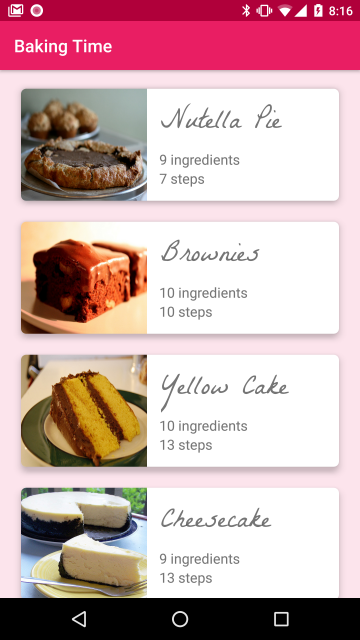
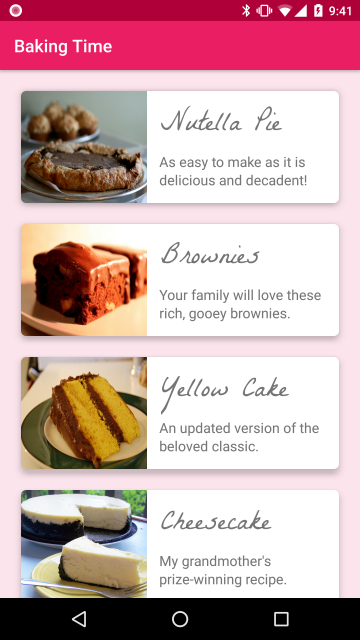
Recipe cards/model now includes blurbs

diff --git a/app/src/main/java/com/tachyonlabs/bakingapp/utilities/RecipeJsonUtils.java b/app/src/main/java/com/tachyonlabs/bakingapp/utilities/RecipeJsonUtils.java
@@ -19,13 +19,14 @@ public class RecipeJsonUtils {
     public static Recipe[] getRecipesFromJson(Context context, String recipesJsonString) throws JSONException {
         JSONArray recipesArray = new JSONArray(recipesJsonString);
         Recipe[] recipes = new Recipe[recipesArray.length()];
-        HashMap<String, String> photoUrls = new HashMap<>();
+        HashMap<String, String[]> photoUrls = new HashMap<>();
         /*
         The JSON for the recipes contains URLs for videos illustrating some of the steps, but no
-        links to photos. I would say that in "real life" no one who went to all the trouble to make
-        multiple videos for each of their recipes would neglect the very basic step of taking at
-        least one photograph of the finished products, so to make this app look more like an actual
-        product as well, I am using the following Flickr photos, which the photographers have made
+        links to photos, and no recipe descriptions. I would say that in "real life" no one who went
+        to all the trouble to make multiple videos for each of their recipes would neglect the very
+        basic steps of taking at least one photograph and writing a short blurb/tagline for each of
+        the finished products, so to make this app look more like an actual product as well, I wrote
+        some blurbs, and am using the following Flickr photos, which the photographers have made
         available for use under the Creative Commons license:
 
         * For Nutella Pie: "[I invented this](https://www.flickr.com/photos/leedav/4328677446/)", by [Lee Davenport](https://www.flickr.com/people/leedav/)
@@ -33,10 +34,10 @@ public class RecipeJsonUtils {
         * For Yellow Cake: "[yellow cake](https://www.flickr.com/photos/stuart_spivack/2584637478/)", by [Stuart Spivack](https://www.flickr.com/people/stuart_spivack/)
         * For Cheesecake: "[Cheesecake Supreme](https://www.flickr.com/photos/cuttingboard/2699220126)", by [Emily Carlin](https://www.flickr.com/people/cuttingboard/)
         */
-        photoUrls.put("Nutella Pie", "https://c1.staticflickr.com/5/4001/4328677446_ecdd0479a3_z.jpg");
-        photoUrls.put("Brownies", "https://c2.staticflickr.com/6/5224/5727350257_72a6008cc9_z.jpg");
-        photoUrls.put("Yellow Cake", "https://c2.staticflickr.com/4/3177/2584637478_bc89ae4a1d_z.jpg");
-        photoUrls.put("Cheesecake", "https://c2.staticflickr.com/4/3015/2699220126_cc964a2cd2_z.jpg");
+        photoUrls.put("Nutella Pie", new String[] {"https://c1.staticflickr.com/5/4001/4328677446_ecdd0479a3_z.jpg", "As easy to make as it is delicious and decadent!"});
+        photoUrls.put("Brownies",  new String[] {"https://c2.staticflickr.com/6/5224/5727350257_72a6008cc9_z.jpg", "Your family will love these rich, gooey brownies."});
+        photoUrls.put("Yellow Cake",  new String[] {"https://c2.staticflickr.com/4/3177/2584637478_bc89ae4a1d_z.jpg", "An updated version of the beloved classic."});
+        photoUrls.put("Cheesecake",  new String[] {"https://c2.staticflickr.com/4/3015/2699220126_cc964a2cd2_z.jpg", "My grandmother's prize-winning recipe."});
 
         for (int i = 0; i < recipesArray.length(); i++) {
             JSONObject recipe = recipesArray.getJSONObject(i);
@@ -50,7 +51,10 @@ public class RecipeJsonUtils {
             RecipeStep[] recipeSteps = getStepsFromJson(context, steps);
             Log.d(TAG, "recipeSteps length: " + recipeSteps.length);
 
-            Recipe card = new Recipe(i, recipeName, recipeIngredients, recipeSteps, recipeServings, photoUrls.get(recipeName));
+            String photoUrl = photoUrls.get(recipeName)[0];
+            String blurb = photoUrls.get(recipeName)[1];
+
+            Recipe card = new Recipe(i, recipeName, recipeIngredients, recipeSteps, recipeServings, photoUrl, blurb);
             recipes[i] = card;
         }
         return recipes;

diff --git a/app/src/main/java/com/tachyonlabs/bakingapp/RecipeCardAdapter.java b/app/src/main/java/com/tachyonlabs/bakingapp/RecipeCardAdapter.java
@@ -36,9 +36,8 @@ public class RecipeCardAdapter extends RecyclerView.Adapter<RecipeCardAdapter.Re
     @Override
     public void onBindViewHolder(RecipeCardAdapterViewHolder holder, int position) {
         String recipeTitle = mRecipes[position].getName();
-        String recipeIngredients = mRecipes[position].getIngredientsCount()  + " ingredient" + (mRecipes[position].getIngredientsCount() > 1 ? "s" : "");
-        String recipeSteps = mRecipes[position].getStepsCount()  + " step" + (mRecipes[position].getStepsCount() > 1 ? "s" : "");
         String recipeImageUrl = mRecipes[position].getImage();
+        String recipeBlurb = mRecipes[position].getBlurb();
 
         // TODO make placeholder and error images later too
         Picasso.with(holder.ivRecipePhoto.getContext())
@@ -47,8 +46,7 @@ public class RecipeCardAdapter extends RecyclerView.Adapter<RecipeCardAdapter.Re
                 .error(R.drawable.ic_launcher_foreground)
                 .into(holder.ivRecipePhoto);
         holder.tvRecipeName.setText(recipeTitle);
-        holder.tvRecipeIngredients.setText(recipeIngredients);
-        holder.tvRecipeSteps.setText(recipeSteps);
+        holder.tvRecipeBlurb.setText(recipeBlurb);
     }
 
     @Override
@@ -72,15 +70,13 @@ public class RecipeCardAdapter extends RecyclerView.Adapter<RecipeCardAdapter.Re
     public class RecipeCardAdapterViewHolder extends RecyclerView.ViewHolder implements View.OnClickListener {
         public final ImageView ivRecipePhoto;
         public final TextView tvRecipeName;
-        public final TextView tvRecipeIngredients;
-        public final TextView tvRecipeSteps;
+        public final TextView tvRecipeBlurb;
 
         public RecipeCardAdapterViewHolder(View itemView) {
             super(itemView);
-            ivRecipePhoto = (ImageView) itemView.findViewById(R.id.iv_recipe_photo);
-            tvRecipeName = (TextView) itemView.findViewById(R.id.tv_recipe_name);
-            tvRecipeIngredients = (TextView) itemView.findViewById(R.id.tv_recipe_ingredients);
-            tvRecipeSteps = (TextView) itemView.findViewById(R.id.tv_recipe_steps);
+            ivRecipePhoto = itemView.findViewById(R.id.iv_recipe_photo);
+            tvRecipeName = itemView.findViewById(R.id.tv_recipe_name);
+            tvRecipeBlurb = itemView.findViewById(R.id.tv_recipe_blurb);
             itemView.setOnClickListener(this);
         }
 

diff --git a/app/src/main/java/com/tachyonlabs/bakingapp/models/Recipe.java b/app/src/main/java/com/tachyonlabs/bakingapp/models/Recipe.java
@@ -23,6 +23,7 @@ public class Recipe implements Parcelable {
     private RecipeStep[] steps;
     private int servings;
     private String image;
+    private String blurb;
 
     private Recipe(Parcel in) {
         id = in.readInt();
@@ -31,15 +32,17 @@ public class Recipe implements Parcelable {
         steps = in.createTypedArray(RecipeStep.CREATOR);
         servings = in.readInt();
         image = in.readString();
+        blurb = in.readString();
     }
 
-    public Recipe(int id, String name, RecipeIngredient[] recipeIngredients, RecipeStep[] recipeSteps, int servings, String image) {
+    public Recipe(int id, String name, RecipeIngredient[] recipeIngredients, RecipeStep[] recipeSteps, int servings, String image, String blurb) {
         this.id = id;
         this.name = name;
         this.ingredients = recipeIngredients;
         this.steps = recipeSteps;
         this.servings = servings;
         this.image = image;
+        this.blurb = blurb;
     }
 
     public int getId() {
@@ -98,6 +101,14 @@ public class Recipe implements Parcelable {
         this.image = image;
     }
 
+    public String getBlurb() {
+        return blurb;
+    }
+
+    public void setBlurb(String blurb) {
+        this.blurb = blurb;
+    }
+
     @Override
     public int describeContents() {
         return 0;
@@ -111,5 +122,6 @@ public class Recipe implements Parcelable {
         parcel.writeTypedArray(steps, flags);
         parcel.writeInt(servings);
         parcel.writeString(image);
+        parcel.writeString(blurb);
     }
 }

diff --git a/README.md b/README.md
@@ -33,7 +33,7 @@ Meets Specifications:
 
 ### Photos used under Creative Commons license
 
-The JSON for the recipes contains URLs for videos illustrating some of the steps, but no links to photos. I would say that in "real life" no one who went to all the trouble to make multiple videos for each of their recipes would neglect the very basic step of taking at least one photograph of the finished products, so to make this app look more like an actual product as well, I am using the following Flickr photos, which the photographers have made available for use under the Creative Commons license:
+The JSON for the recipes contains URLs for videos illustrating some of the steps, but no links to photos, and no recipe descriptions. I would say that in "real life" no one who went to all the trouble to make multiple videos for each of their recipes would neglect the very basic steps of taking at least one photograph and writing a short blurb/tagline for each of the finished products, so to make this app look more like an actual product as well, I wrote some blurbs, and am using the following Flickr photos, which the photographers have made available for use under the Creative Commons license:
 
 * For Nutella Pie: "[I invented this](https://www.flickr.com/photos/leedav/4328677446/)", by [Lee Davenport](https://www.flickr.com/people/leedav/)
 * For Brownies: "[Chocolate-Mint Brownies](https://www.flickr.com/photos/theryn/5727350257/)", by [Theryn Fleming](https://www.flickr.com/people/theryn/)
